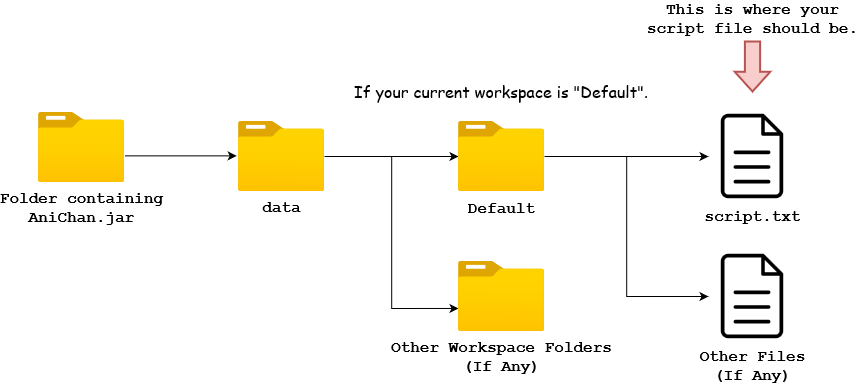
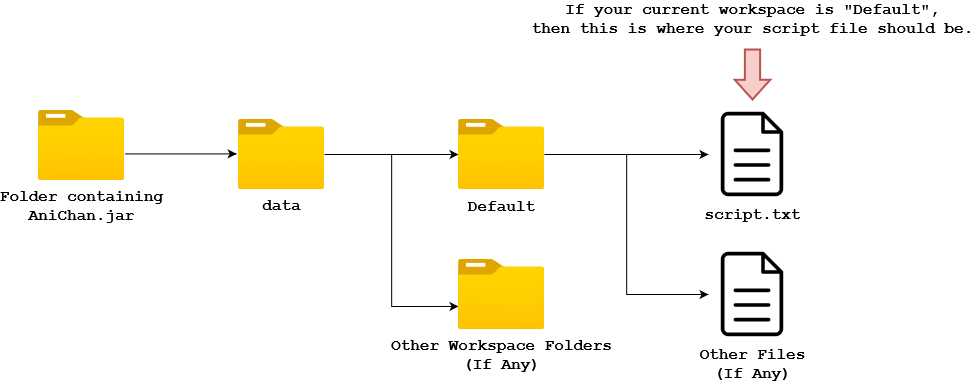
Fix phrasing and diagram in UG

diff --git a/docs/UserGuide.md b/docs/UserGuide.md
@@ -100,9 +100,9 @@ Format: `estimate <SCRIPT_FILE_NAME> [-wph WORDS_PER_HOUR]`
 *   It only accepts one `.txt` file (other file extensions will be supported in a future version).
 *   If the option `-wph` is not specified, the average translator's speed will be used to generate three estimation timings for you to consider.
 
-> :bulb: Remember to specify the script file extension. For example, `script.txt` and not `script`.
+> :bulb: Remember to specify the file extension. For example, `script.txt` and not `script`.
 
-> :bulb: Ensure the script file has been placed in your workspace folder as indicated in the diagram below.
+> :bulb: Ensure the script file has been placed in the current workspace folder as indicated in the diagram below.
 <br/><br/>![Estimate Folder Structure Diagram](images/Estimate-Folder-Structure-Diagram.png)
 
 <br/>
